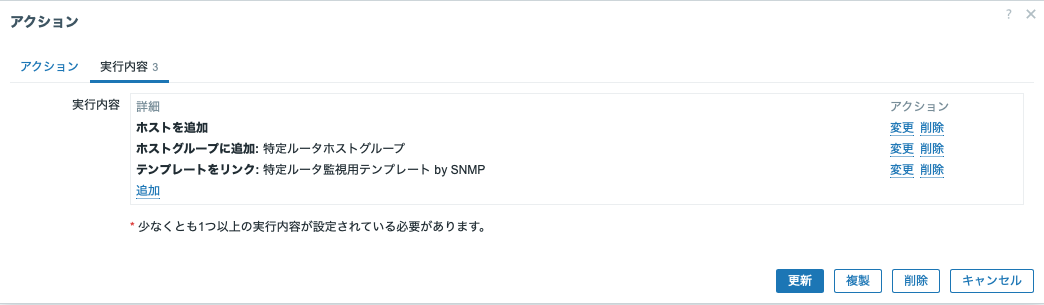
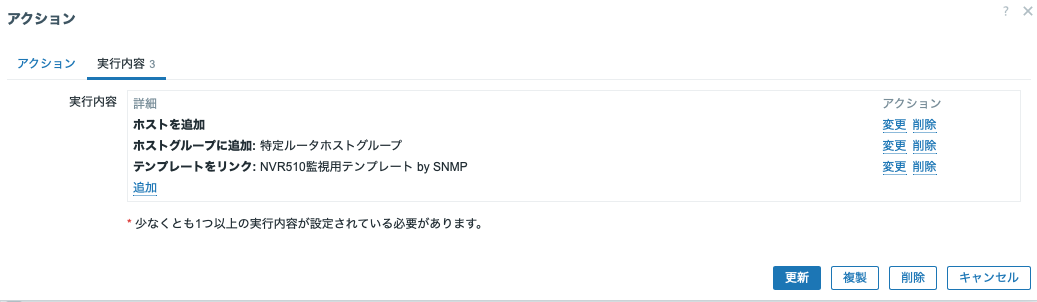
Zabbix7LTS SNMP discovery

diff --git a/zbx7_snmp_discovery/README.md b/zbx7_snmp_discovery/README.md
@@ -143,21 +143,25 @@ SNMPによるデータ収集は、次のような順で行われる。
 | 実行条件 D | 「アップタイム/ダウンタイム」が 600 秒以上であるという条件。ある程度の時間に渡って安定して存在/不在のときに登録/解除をやるということ。 |
 | 有効 | 有効にしておくとこのアクションが作動する。 |
 
-- これで、`A and ( B or C ) and D` という論理式で真になれば、そのノー
-    ドに対して後述の「実行内容」タブの内容を実行することになる。
+これで、`A and ( B or C ) and D` という論理式で真になれば、そのノードに対して後述の「実行内容」タブの内容を実行することになる。
+
 - 続いて「実行内容」タブ
-  - 「アクション」タブに設定した条件をクリアしたターゲットに対して、実
+
+  <img src="./04_action-execution.png" width=30%>アクション/実行内容タブ<img/>
+
+- 「アクション」タブに設定した条件をクリアしたターゲットに対して、実
     行したいことを設定する。
-  - まず「ホストを追加」で、監視対象として登録し、
-  - 「ホストグループに追加」で「特定ルータホストグループ」(←あらかじ
-    め作成済み)に追加し、
-  - 「テンプレートをリンク」で、「特定ルータ監視用テンプレート by SNMP」
-    (←後で作成する)にリンクする。このテンプレートには NVR510 に対する
-    監視項目(の雛形)が設定してある。
+
+| 項目 | 設定内容 |
+| ---- | -------|
+| ホストを追加 | 監視対象としてホストを登録する。 |
+| ホストグループに追加 | 「特定ルータホストグループ」(←あらかじめ作成済み)に追加する。 |
+| テンプレートをリンク | 「NVR510監視用テンプレート by SNMP」(←後で作成する)にリンクする。このテンプレートには NVR510 に対する監視項目(の雛形)が設定してある。 |
+
+
 - これでホストディスカバリは完了し、条件にあったノードをZabbix監視対象
   として登録するなどの作業を実施したことになる。
 
-  <img src="./04_action-execution.png" width=30%>アクション/実行内容タブ<img/>
 
 ## テンプレート作成
 
